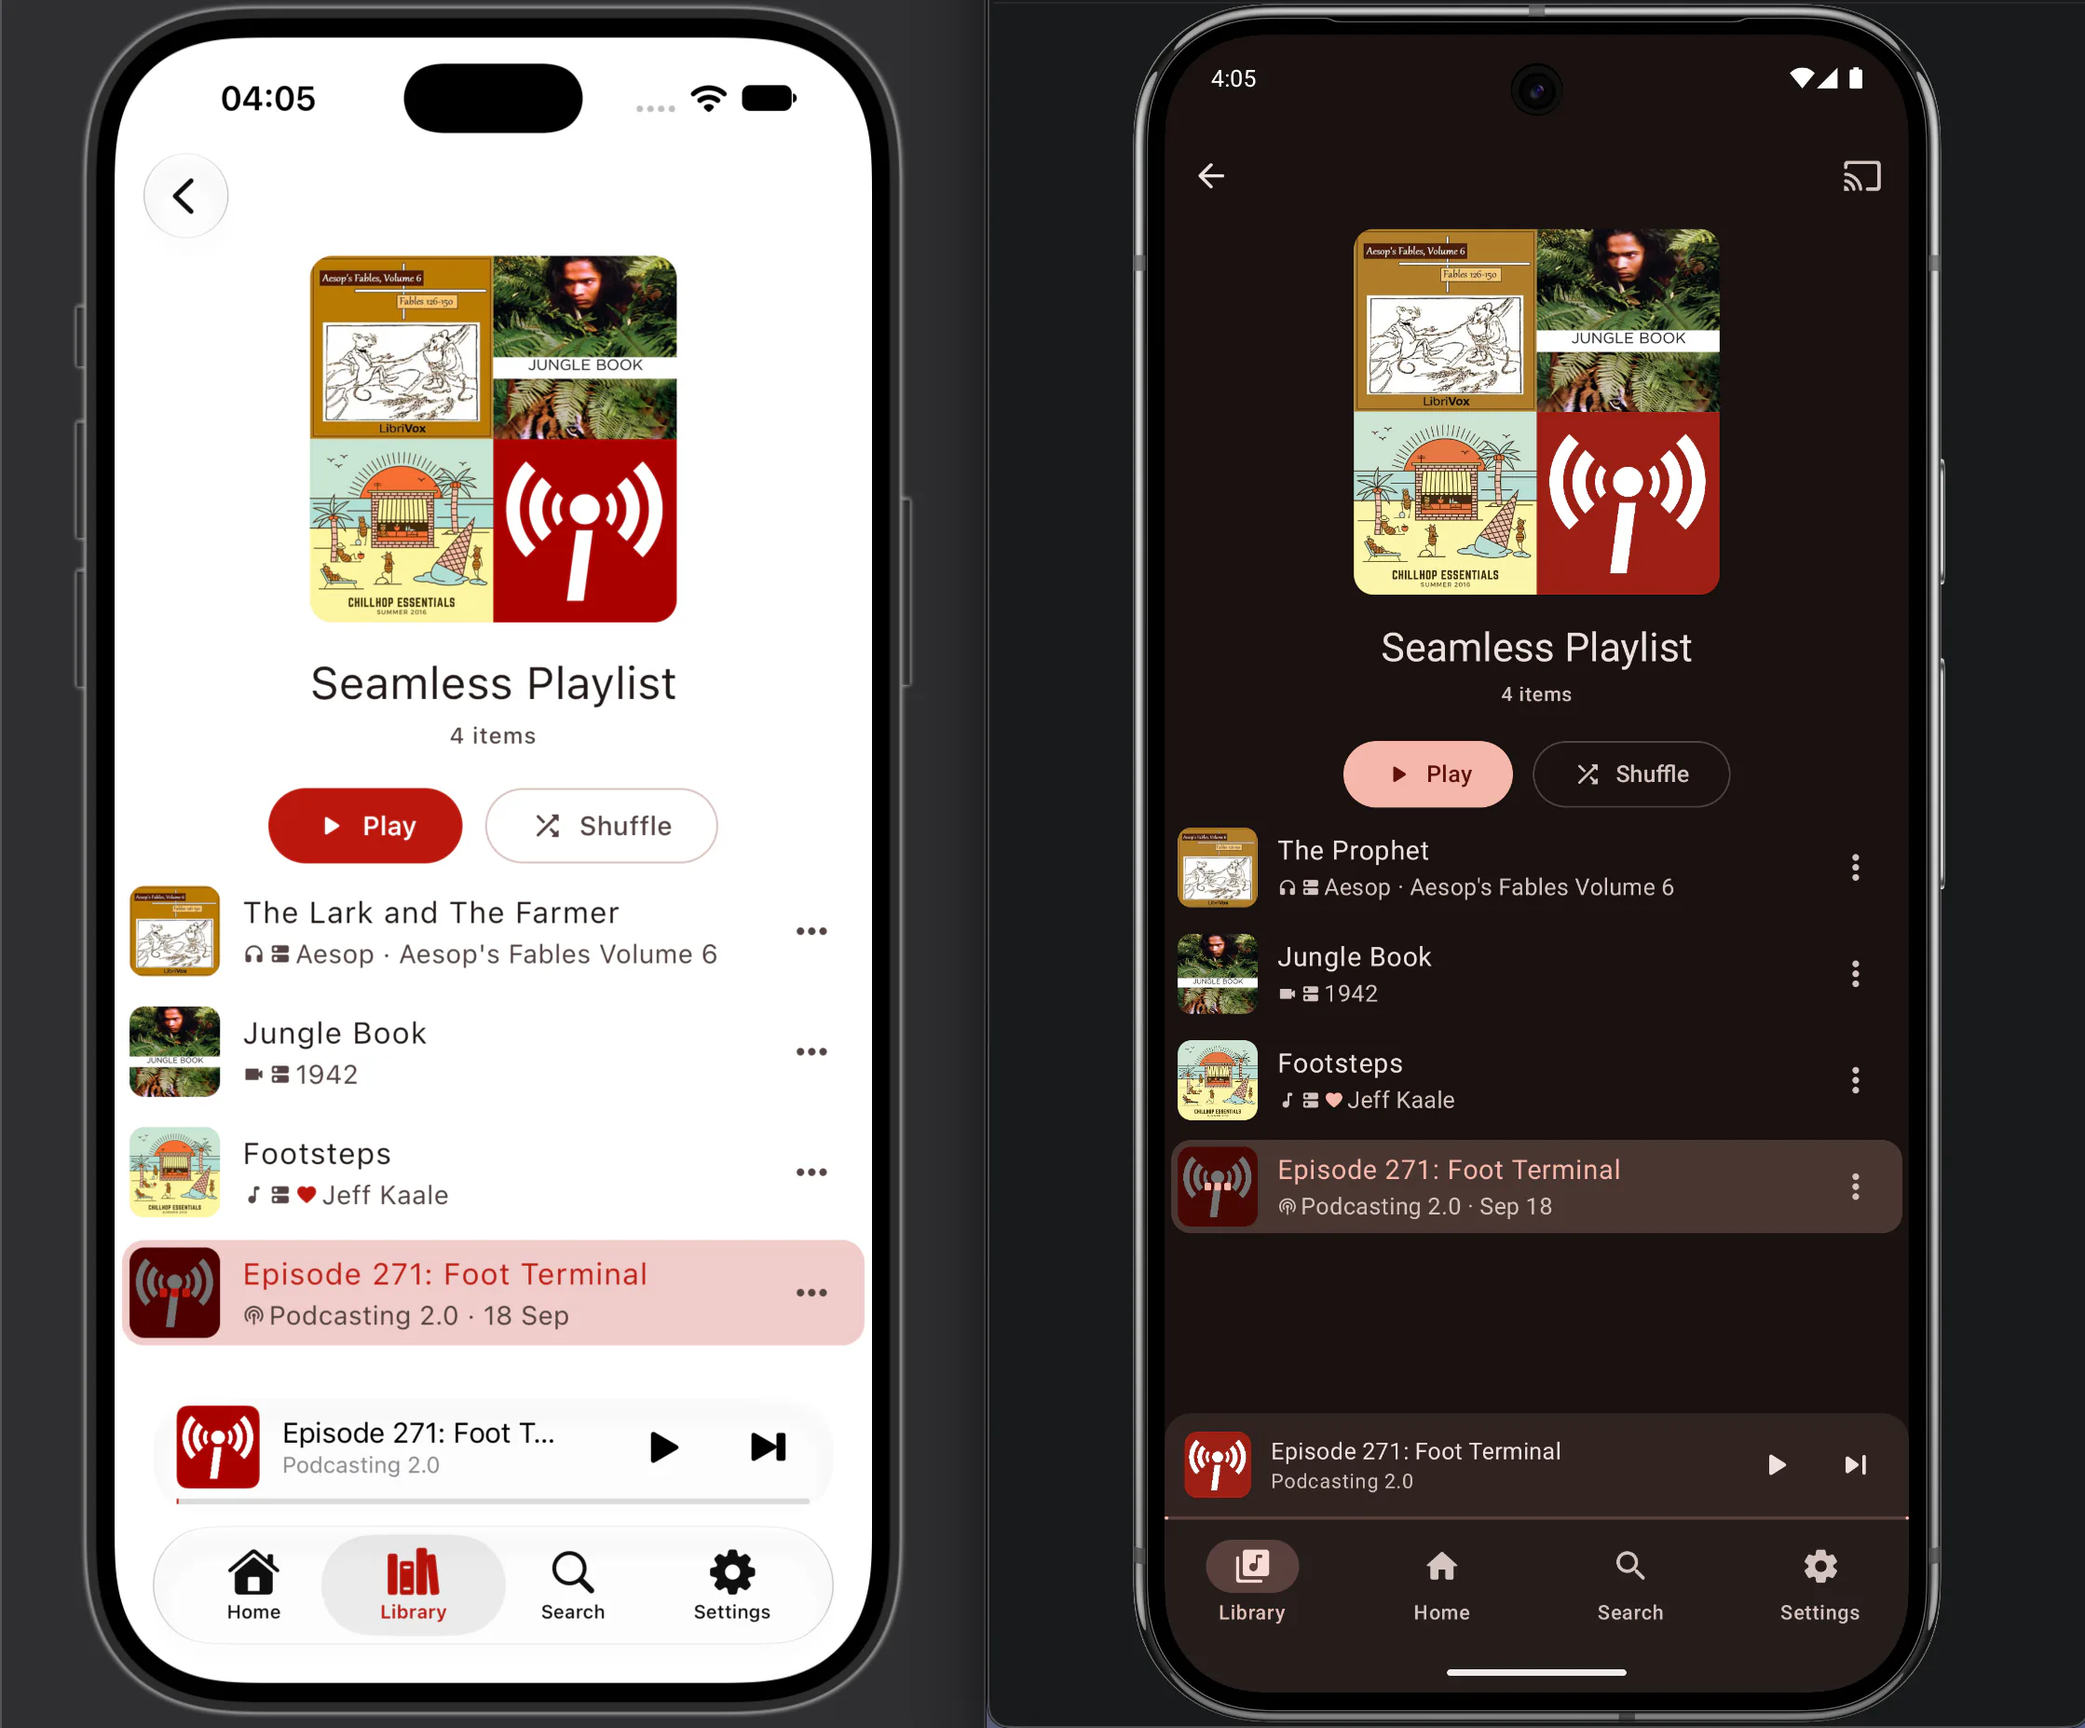
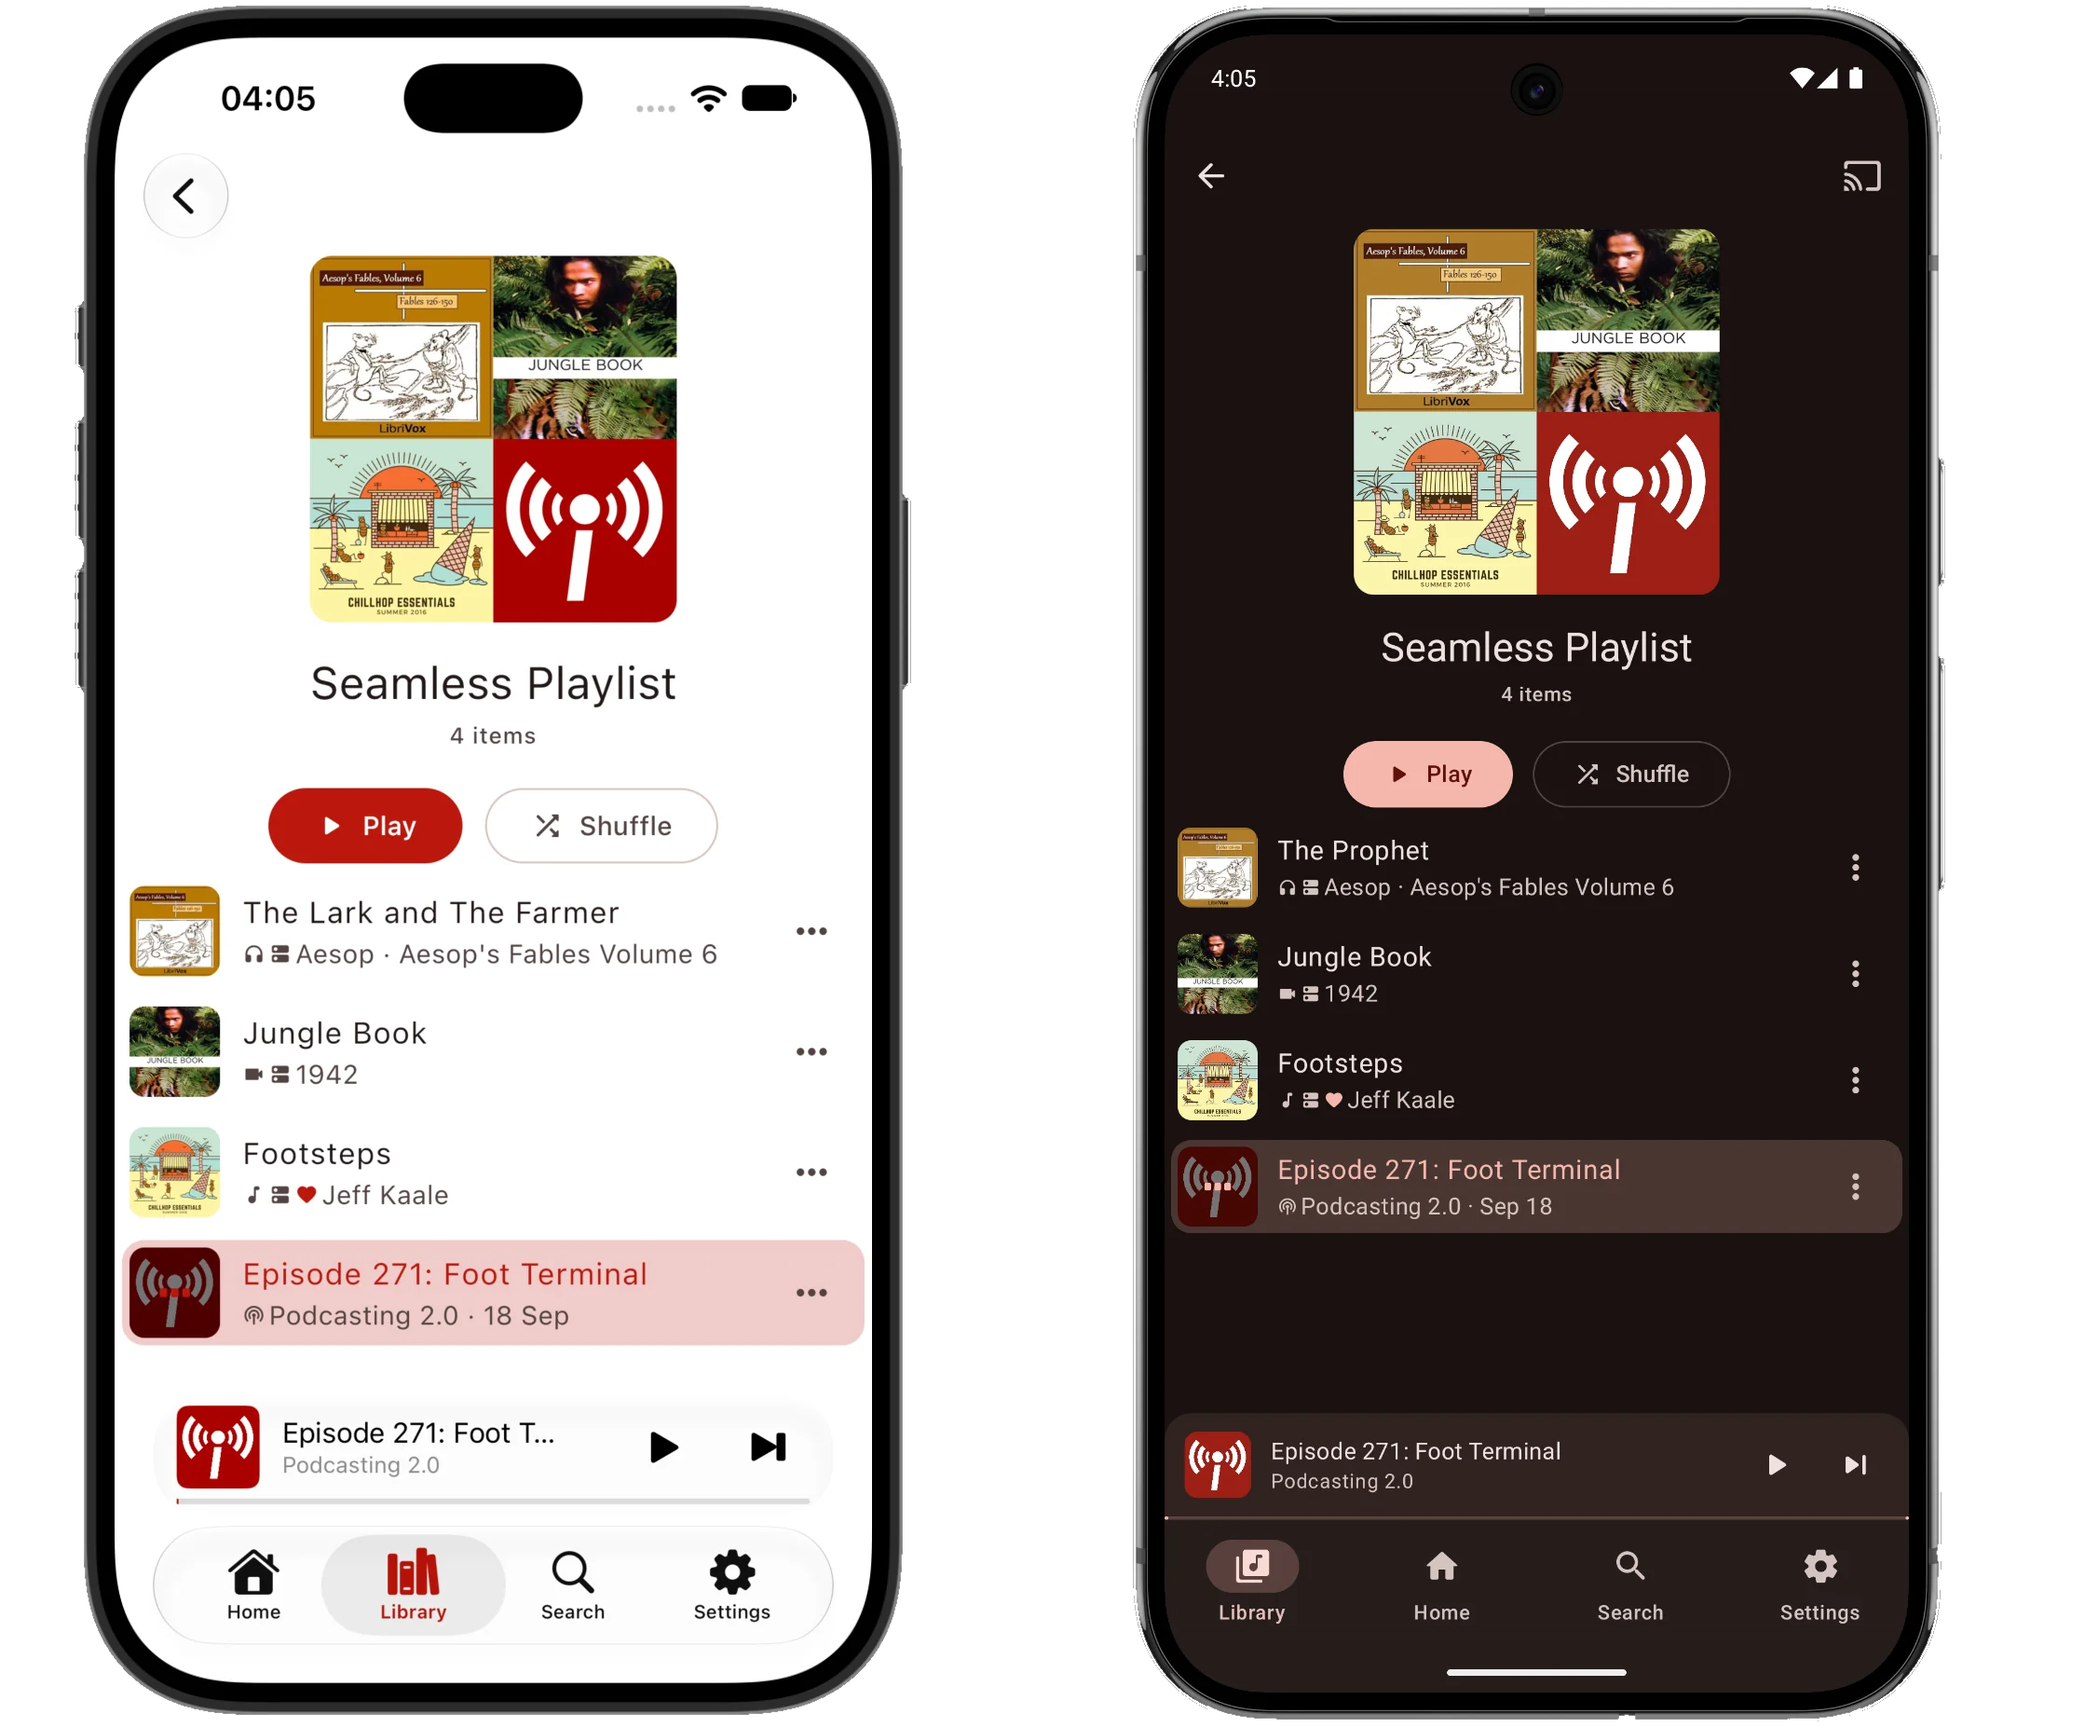
Cut the background out of the screenshots, leaving only the phones
The renders came on a grey background split light to dark down the middle.
That is now transparent, so each picture is the iPhone and the Android phone
and nothing else. The WebPs keep the alpha channel; the cut-out PNGs are in
../mediagg_screenshots and the untouched renders in
../mediagg_screenshots_originals.

A card behind a transparent picture draws a rectangle round two phone
shapes, so .frame, .shotcard and .lbshell lose their border, background and
box-shadow. The hero and the enlarged view get a drop-shadow on the image
instead, which follows the phones' outline. The carousel gets none: with one,
headless Chrome did not paint the slides at all.

Changed region(s): [[0.0, 0.0, 1.0, 1.0]]

diff --git a/public/index.html b/public/index.html
@@ -115,15 +115,14 @@ nav.stuck{border-bottom-color:var(--line);background:rgba(11,13,16,.9)}
 @media(max-width:560px){.c2,.c3{display:none}.stage{height:200px}}
 
 /* hero shot */
-/* The screenshots are landscape renders that already contain their own two devices and their own
-   background, so this draws no bezel of its own — a hairline card and a shadow, nothing more. Any
-   padding or phone gradient here would be a second frame around a picture of a frame. */
-.shotcard{position:absolute;left:50%;top:0;translate:-50% 0;width:560px;border-radius:18px;
-  border:1px solid rgba(255,255,255,.16);overflow:hidden;
-  box-shadow:0 40px 100px rgba(0,0,0,.72), inset 0 1px 0 rgba(255,255,255,.1)}
+/* The screenshots are landscape renders of two devices cut out on a transparent background, so
+   this draws no card of its own. The shadow is a drop-shadow on the image, not a box-shadow, so it
+   follows the phones' outline instead of the picture's rectangle. */
+.shotcard{position:absolute;left:50%;top:0;translate:-50% 0;width:560px}
 /* aspect-ratio, not just height:auto — it reserves the height the render will occupy before it
    loads, so the hero does not reflow the marquee and everything below it on arrival. */
-.shotcard img{display:block;width:100%;height:auto;aspect-ratio:2238/1854;background:#0a0d11}
+.shotcard img{display:block;width:100%;height:auto;aspect-ratio:2238/1854;
+  filter:drop-shadow(0 30px 40px rgba(0,0,0,.6))}
 @media(max-width:1000px){.shotcard{width:470px}}
 @media(max-width:860px){.shotcard{width:390px}}
 @media(max-width:560px){.shotcard{width:min(330px,92%)}}
@@ -172,18 +171,15 @@ section{padding:104px 0;position:relative}
    26px gap out to 106px and looked deliberate; with a 520px landscape slide it is the difference
    between two fitting across the rail and one, which would give the carousel a dot per slide. */
 .shot{flex:none;width:var(--shot);scroll-snap-align:start;text-align:center;margin:16px 0}
-/* Same construction as the hero's .shotcard, so the two read alike: no bezel, because the render
-   already contains its devices and its own background. A button rather than a div: it opens the
+/* Same construction as the hero's .shotcard, so the two read alike: no bezel and no card, because
+   the render is its two devices on a transparent background. A button rather than a div: it opens the
    enlarged view, so it has to be reachable by keyboard and announce itself as something to press. */
 .frame{display:block;width:100%;font:inherit;color:inherit;-webkit-appearance:none;cursor:zoom-in;
-  border-radius:18px;padding:0;overflow:hidden;background:#0a0d11;
-  border:1px solid rgba(255,255,255,.16);
-  box-shadow:0 30px 70px rgba(0,0,0,.6), inset 0 1px 0 rgba(255,255,255,.1);
-  transition:transform .45s var(--ease),box-shadow .45s,border-color .45s}
+  border-radius:18px;padding:0;background:none;border:0;
+  transition:transform .45s var(--ease)}
 .frame:focus-visible{outline:2px solid var(--red);outline-offset:4px}
-.shot:hover .frame{transform:translateY(-7px);border-color:rgba(255,61,61,.4);
-  box-shadow:0 40px 90px rgba(0,0,0,.72), inset 0 1px 0 rgba(255,255,255,.12)}
-.frame img{display:block;width:100%;height:auto;border-radius:17px;background:#0a0d11}
+.shot:hover .frame{transform:translateY(-7px)}
+.frame img{display:block;width:100%;height:auto}
 .shot figcaption{margin-top:18px;font-size:13.5px;font-weight:700;color:var(--ink);padding:0 4px;line-height:1.45}
 .shot figcaption span{display:block;margin-top:5px;font-size:12.5px;font-weight:500;color:var(--dim)}
 .arw{position:absolute;top:50%;translate:0 calc(-50% - 30px);z-index:5;
@@ -214,14 +210,13 @@ section{padding:104px 0;position:relative}
   opacity:0;visibility:hidden;transition:opacity .3s var(--ease),visibility .3s}
 .lb.on{opacity:1;visibility:visible}
 .lbfig{margin:0;display:grid;justify-items:center;gap:18px;max-height:100%}
-.lbshell{padding:0;border-radius:20px;overflow:hidden;background:#0a0d11;
-  border:1px solid rgba(255,255,255,.18);box-shadow:0 40px 120px rgba(0,0,0,.8);
+.lbshell{padding:0;
   transform:scale(.94);transition:transform .35s var(--ease);line-height:0}
 .lb.on .lbshell{transform:none}
 /* Both maxima with auto on both axes, so the picture is fitted rather than stretched: a fixed
    height plus a max-width would squash it on a narrow screen. */
 .lbshell img{display:block;max-height:76vh;max-width:92vw;width:auto;height:auto;
-  border-radius:19px;background:#0a0d11}
+  filter:drop-shadow(0 30px 50px rgba(0,0,0,.7))}
 .lbfig figcaption{text-align:center;font-size:14px;font-weight:700;color:var(--ink);max-width:min(90vw,420px)}
 .lbfig figcaption span{display:block;margin-top:5px;font-size:12.5px;font-weight:500;color:var(--dim)}
 .lbfig figcaption .lbnum{margin-top:9px;font-size:11.5px;letter-spacing:.14em;text-transform:uppercase}
@@ -445,9 +440,9 @@ footer a:hover{color:var(--ink)}
   <!-- SCREENSHOT SET. The renders as they were supplied: one landscape picture per screen, each
        holding the same screen twice — an iPhone in the light theme on the left, an Android phone
        in the dark on the right — so every slide says both platforms at once. Nothing is cropped
-       out of them, which is why .frame draws no bezel: the devices and their background are in
-       the picture already. All from the shipping build — the bottom bar is Library, Home, Search
-       and Settings, with no Explore tab. To change the set, drop .webp files into /screens at
+       out of them, but their background is cut away, so each is two phones on transparency and
+       .frame draws neither bezel nor card around them. All from the shipping build — the bottom
+       bar is Library, Home, Search and Settings, with no Explore tab. To change the set, drop .webp files into /screens at
        1119px wide with 2238px twins under the same names in /screens/large, then add or remove
        <figure class="shot"> blocks — the carousel counts them itself, so nothing else needs
        touching. -->

diff --git a/README.md b/README.md
@@ -71,18 +71,23 @@ Search, Settings, there is no **Explore** tab, and no slide shows a radio statio
 Xtended-build shots that used to be here — Explore tab in the navigation, station search, an Explore
 slide — are gone, along with the warning that said not to deploy.
 
-Fourteen carousel slides and the hero. The sources are **landscape mock-up renders, used as they
-were supplied** — one picture per screen, each holding the same screen twice: an iPhone in the light
-theme on the left, an Android phone in the dark on the right, on a background that splits light to
-dark down the middle. Nothing is cropped out of them, so every slide shows both platforms and both
-themes at once. They are 2238×1854; the carousel gets an exact half at 1119×927 and the enlarged
-view gets the full size, so **nothing is upscaled**.
+Fourteen carousel slides and the hero. The sources are **landscape mock-up renders** — one picture
+per screen, each holding the same screen twice: an iPhone in the light theme on the left, an Android
+phone in the dark on the right. The renders came on a grey background; that has been **cut away to
+transparency**, so each picture is the two devices and nothing else. The source PNGs in
+`../mediagg_screenshots/` are the cut-out versions, and the untouched renders are kept alongside in
+`../mediagg_screenshots_originals/`. Nothing else is cropped out of them, so every slide shows both
+platforms and both themes at once. They are 2238×1854; the carousel gets an exact half at 1119×927
+and the enlarged view gets the full size, so **nothing is upscaled**. The WebPs keep the alpha
+channel, so re-encode with transparency if you regenerate them.
 
 Two layout consequences, both already handled, and both easy to undo by accident:
 
-- **Nothing here draws a bezel.** `.frame` and the hero's `.shotcard` are a hairline border, a
-  radius and a shadow, with no padding — the devices and their background are in the picture
-  already, so a phone shell around one would be a frame around a picture of a frame.
+- **Nothing here draws a bezel or a card.** `.frame`, the hero's `.shotcard` and the enlarged
+  view's `.lbshell` have no border, background or box-shadow — the pictures are transparent around
+  the phones, so any of those would draw a rectangle round two phone shapes. The hero and the
+  enlarged view put a `drop-shadow` filter on the image instead, which follows the phones' outline.
+  The carousel has none: headless Chrome did not paint the slides with one.
 - **`.shot` sets `margin:16px 0`.** A `<figure>` carries `margin: 1em 40px` by default, which padded
   the rail's 26px gap out to 106px. That looked deliberate behind 236px portrait slides; behind a
   520px landscape slide it is the difference between two fitting across the rail and one, and one
